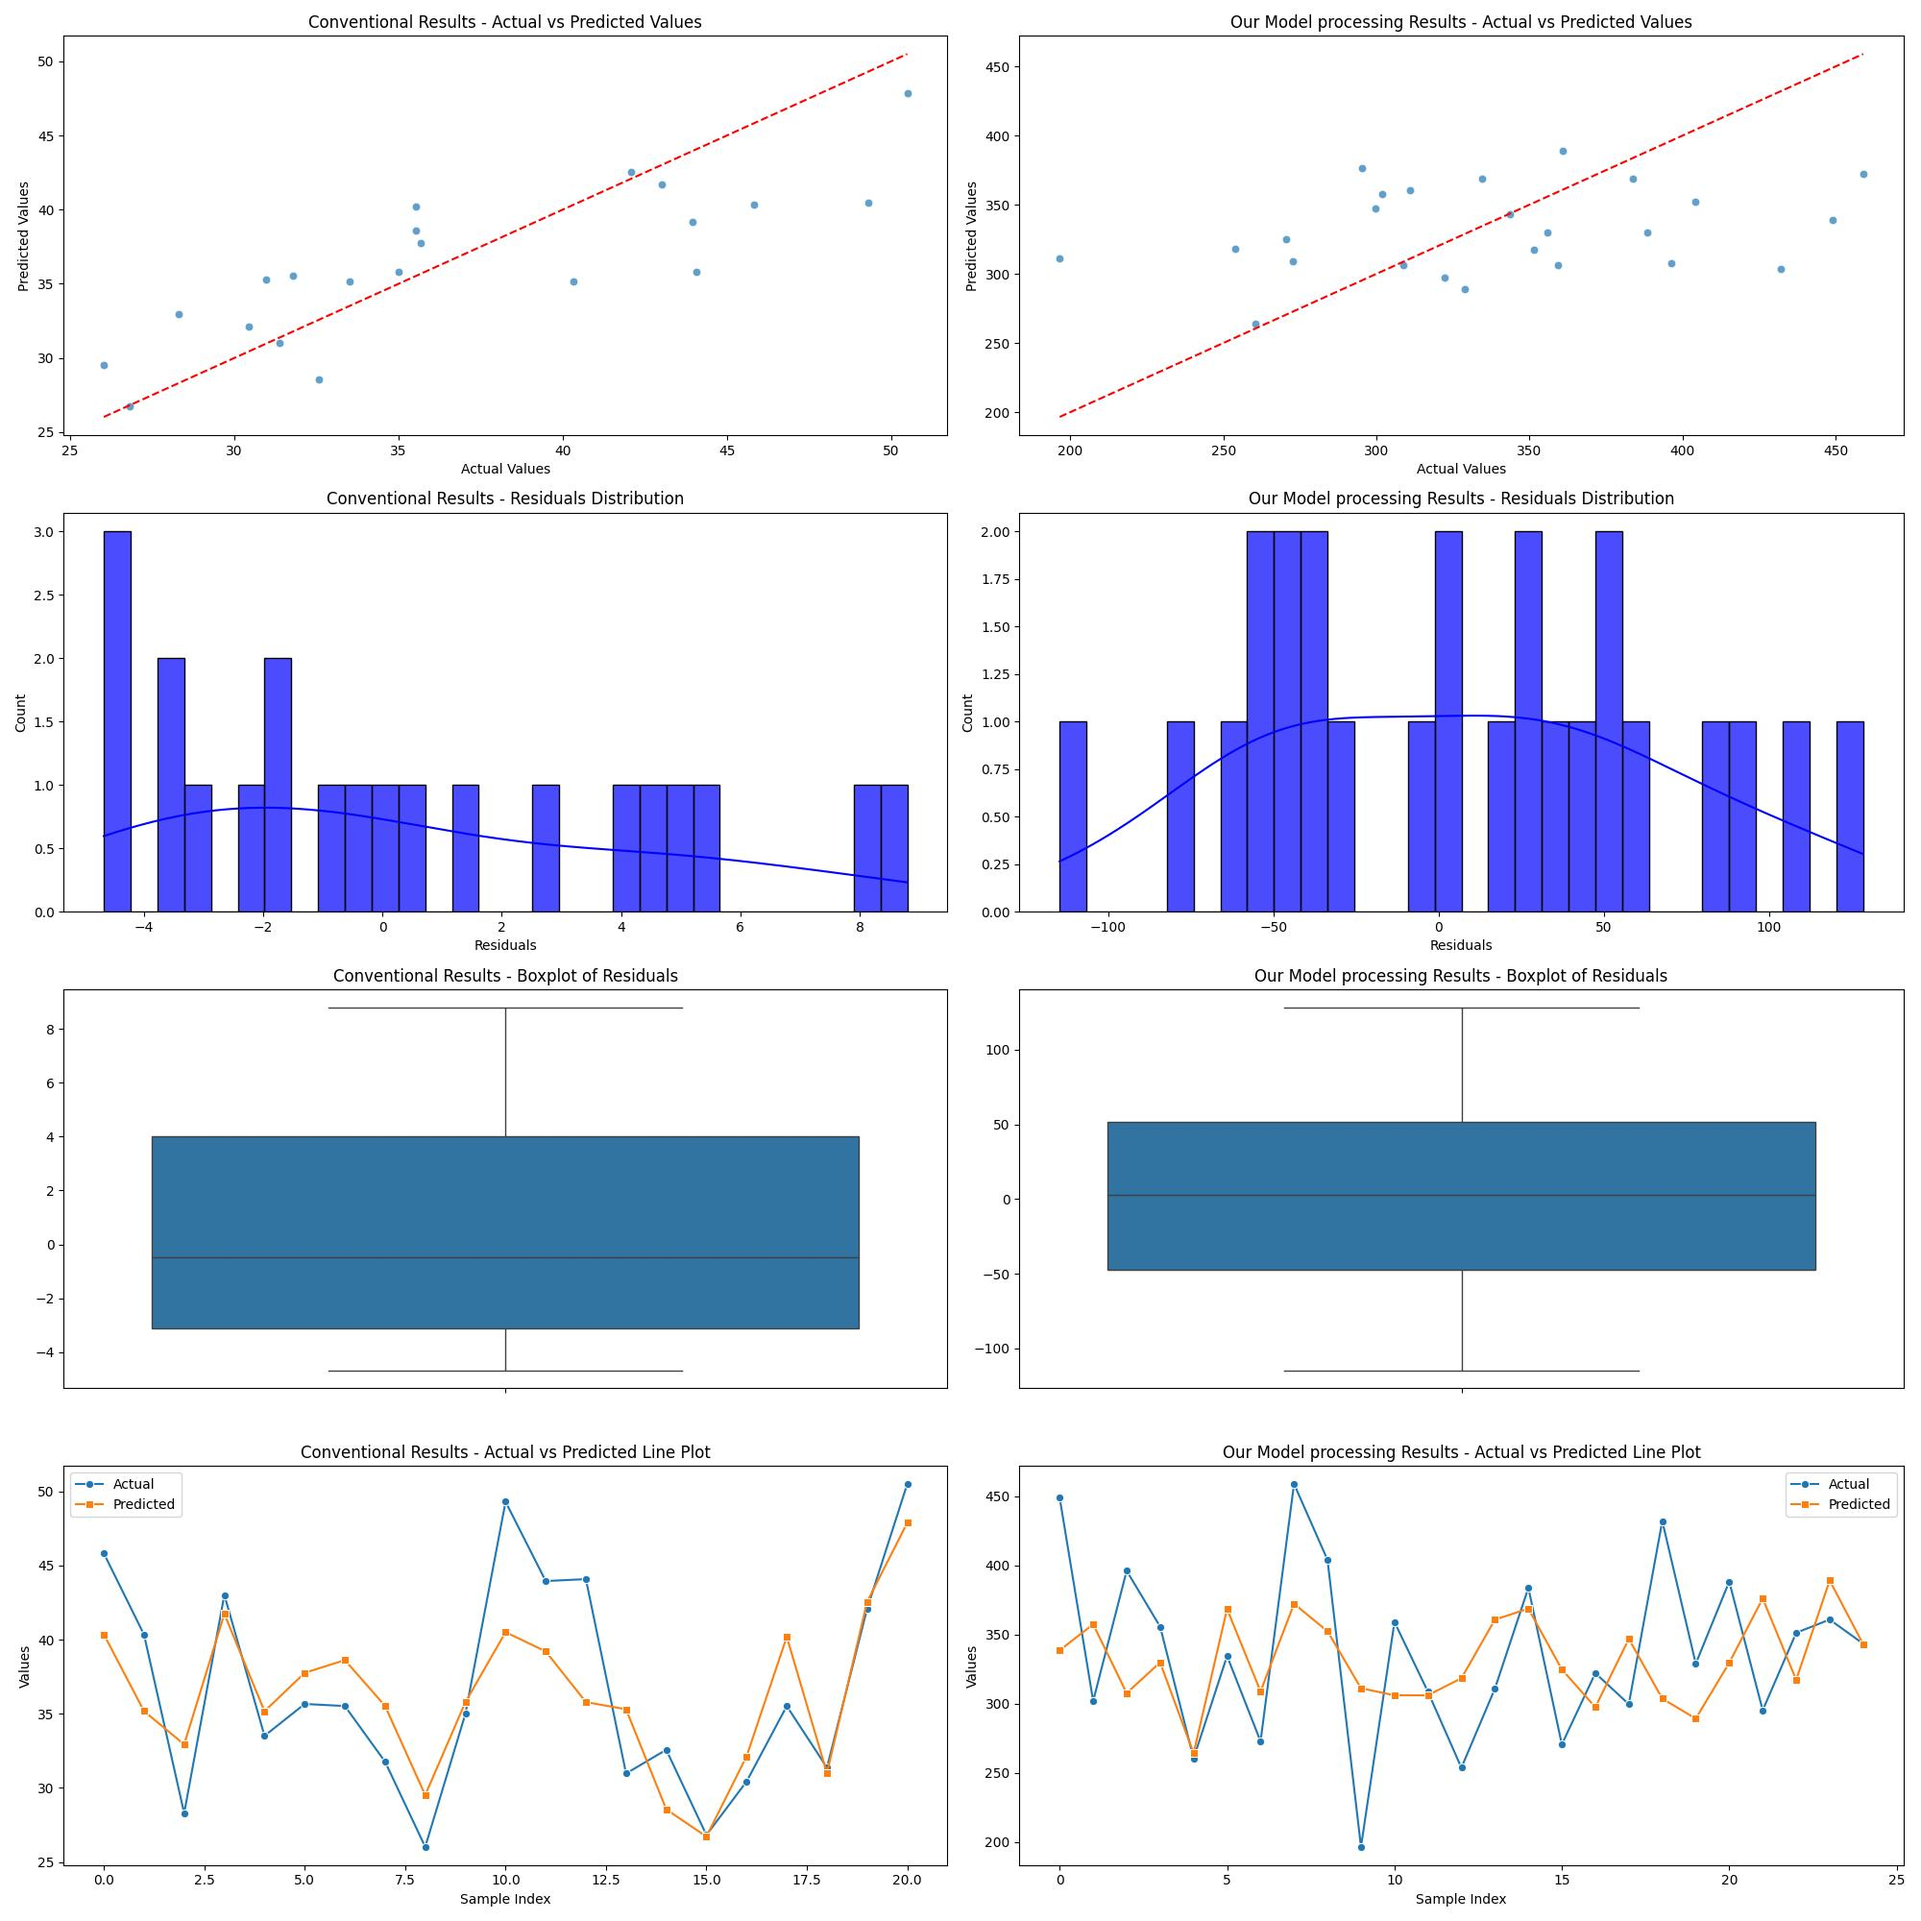
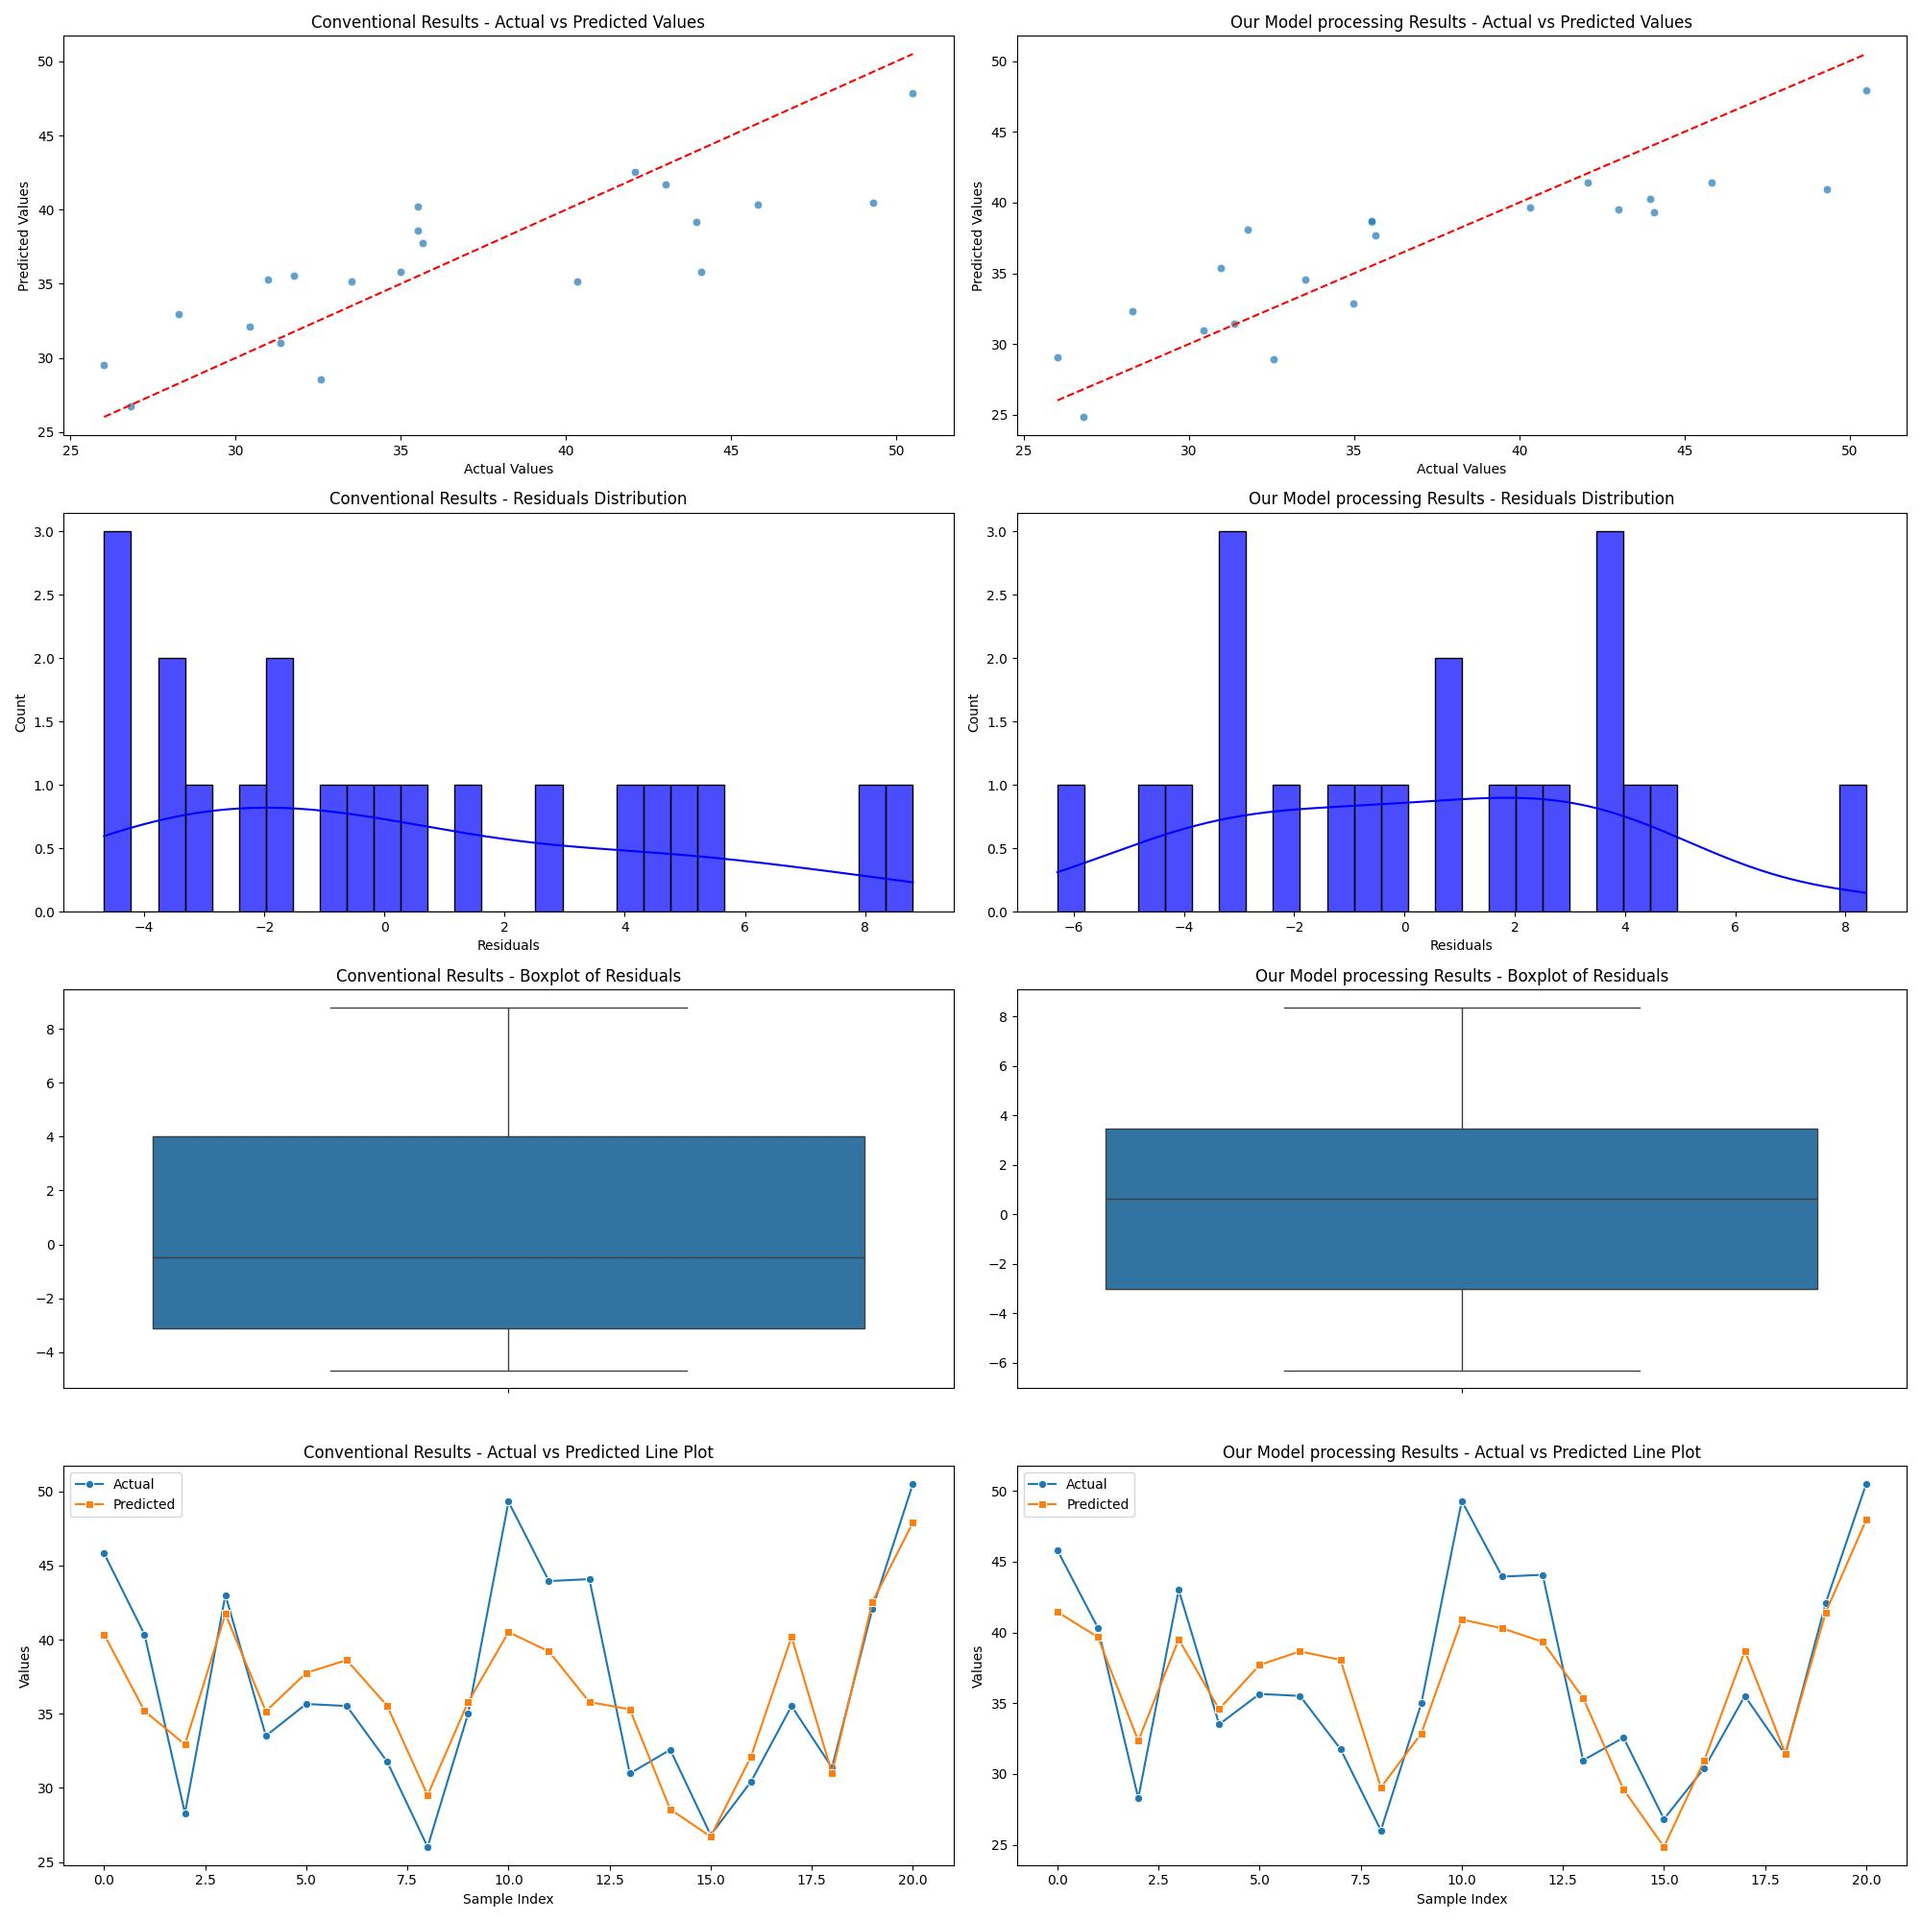
img_good

diff --git a/app/model.py b/app/model.py
@@ -12,6 +12,7 @@ from sklearn.ensemble import RandomForestRegressor, GradientBoostingRegressor
 from sklearn.svm import SVR
 from sklearn.neighbors import KNeighborsRegressor
 from sklearn.preprocessing import LabelEncoder
+import global_store
 from pre_processing.main import main
 from sklearn.model_selection import train_test_split
 from sklearn.preprocessing import MinMaxScaler,StandardScaler
@@ -31,7 +32,7 @@ models = {
 }
 
 def pre_process_data(file_path):
-    checkbox = session.get("checkbox")
+    checkbox =  global_store.global_data["checkbox"]
     df,_ = main(file_path,gen_syn_data=checkbox)
     return df
 
@@ -71,7 +72,8 @@ def train_predict_regression(data_csv, model_name,target):
     results = {
         "Model Coefficients": model.coef_.tolist() if hasattr(model, "coef_") else "Not applicable",
         "Intercept": model.intercept_.tolist() if hasattr(model, "intercept_") else "Not applicable",
-        "Predictions on Test Data": y_test_pred.tolist(),
+        "Expected":y_test.tolist(),
+        "Preds": y_test_pred.tolist(),
         "Performance Metrics": {
             "Mean Squared Error": mse,
             "Root Mean Squared Error": rmse,
@@ -81,12 +83,6 @@ def train_predict_regression(data_csv, model_name,target):
             "Explained Variance Score": explained_variance
         }
     }
-
-    print("REGRE")
-
-    y_test = scaler.inverse_transform(y_test.reshape(-1, 1)).flatten()
-    y_test_pred = scaler.inverse_transform(np.array(y_test_pred).reshape(-1, 1)).flatten()
-
 
     return results, y_test, y_test_pred
 
@@ -160,6 +156,11 @@ def regression_standard(data_csv,model_name,target):
 
     y_test_pred = model.predict(X_test)
 
+    # **Inverse transform predicted and actual y values**
+    y_test = y_scaler.inverse_transform(y_test.reshape(-1, 1)).flatten()
+    y_test_pred = y_scaler.inverse_transform(y_test_pred.reshape(-1, 1)).flatten()
+
+
     # Compute metrics
     mse = mean_squared_error(y_test, y_test_pred)
     rmse = np.sqrt(mse)
@@ -172,7 +173,8 @@ def regression_standard(data_csv,model_name,target):
     results = {
         "Model Coefficients": model.coef_.tolist() if hasattr(model, "coef_") else "Not applicable",
         "Intercept": model.intercept_.tolist() if hasattr(model, "intercept_") else "Not applicable",
-        "Predictions on Test Data": y_test_pred.tolist(),
+        "Expected":y_test.tolist(),
+        "Preds": y_test_pred.tolist(),
         "Performance Metrics": {
             "Mean Squared Error": mse,
             "Root Mean Squared Error": rmse,
@@ -182,11 +184,6 @@ def regression_standard(data_csv,model_name,target):
             "Explained Variance Score": explained_variance
         }
     }
-
-    print("REGRE")
-    y_test = y_scaler.inverse_transform(y_test.reshape(-1, 1)).flatten()
-    y_test_pred = y_scaler.inverse_transform(np.array(y_test_pred).reshape(-1, 1)).flatten()
-
 
     return results, y_test, y_test_pred
 
@@ -232,17 +229,21 @@ def classification_standard(data_csv,model_name,target):
         "Performance Metrics": metrics
     }
 
-    return results, y_test.tolist(), y_test_pred.tolist()
+    return results, y_test, y_test_pred
 
 def visualize_results(un_results, un_y_test, un_y_pred, pros_results, pros_test, pros_pred, save_path):
     fig, axes = plt.subplots(4, 2, figsize=(20, 20))
     axes = axes.flatten()
     
     for i, (yt, yp, title) in enumerate([
-        (un_y_test, un_y_pred, "Conventional Results"),
-        (pros_test, pros_pred, "Our Model processing Results")
+        (un_results["Expected"], un_results["Preds"], "Conventional Results"),
+        (pros_results["Expected"], pros_results["Preds"], "Our Model processing Results")
     ]):
-        residuals = yt - yp
+        # Convert lists to numpy arrays for element-wise subtraction
+        yt = np.array(yt).flatten()
+        yp = np.array(yp).flatten()
+        residuals = yt- yp
+    
         
         sns.scatterplot(x=yt, y=yp, alpha=0.7, ax=axes[i])
         axes[i].plot([yt.min(), yt.max()], [yt.min(), yt.max()], 'r', linestyle='--')
@@ -265,7 +266,7 @@ def visualize_results(un_results, un_y_test, un_y_pred, pros_results, pros_test,
         axes[i + 6].legend()
     
     plt.tight_layout()
-    
+
     plt.savefig(save_path)
     plt.close()
     

diff --git a/app/input.py b/app/input.py
@@ -8,6 +8,7 @@ from model import classification_standard, regression_standard, train_predict_re
 import requests
 import json
 from flask_cors import CORS
+import global_store
 
 
 
@@ -89,10 +90,12 @@ def run_model():
         un_results, un_y_test, un_y_test_pred = classification_standard(data_csv, model_name,target = result_array[2])
     else:
         pass
+    
+    print(results)
 
     path = visualize_results(
         un_results=un_results,
-        un_y_test=un_y_test,
+        un_y_test=un_y_test,    
         un_y_pred=un_y_test_pred,
         pros_results= results,
         pros_test=y_test,
@@ -179,8 +182,7 @@ def checkbox_data():
     data = request.get_json()
     generate_value = data.get("generate", 0)  # Default to 0 if missing
 
-    session["checkbox"] = generate_value
-    session.modified = True
+    global_store.global_data["checkbox"] = generate_value  
     print(f"Checkbox Value Received: {generate_value}")
 
     # Process the value (you can use it in your model or save it)
@@ -189,7 +191,7 @@ def checkbox_data():
 
     
 if __name__ == "__main__":
-    app.run(debug=False)
+    app.run(debug=True)
 
 
 

diff --git a/app/pre_processing/main.py b/app/pre_processing/main.py
@@ -1,5 +1,7 @@
 import os
 import json
+
+from flask import session
 from pre_processing.modules.data_loader import load_and_preprocess_dataset
 from pre_processing.modules.data_cleaner import DataCleaner
 from pre_processing.modules.data_imputer import DataImputer
@@ -21,7 +23,7 @@ def main(file_path, output_dir='app\output', gen_syn_data=False, target=None, ta
     # Load and process data
     original_df, initial_report = load_and_preprocess_dataset(file_path)
 
-    original_df = rule_based_cleaning(original_df,r"app\uploads\submitted_data.json")
+    # original_df = rule_based_cleaning(original_df,r"app\uploads\submitted_data.json")
     
     # Clean data
     processed_df,column_dtype = data_cleaner.infer_and_validate_column_types(original_df)

diff --git a/app/global_store.py b/app/global_store.py
@@ -1,0 +1,1 @@
+global_data = {"checkbox":0}
